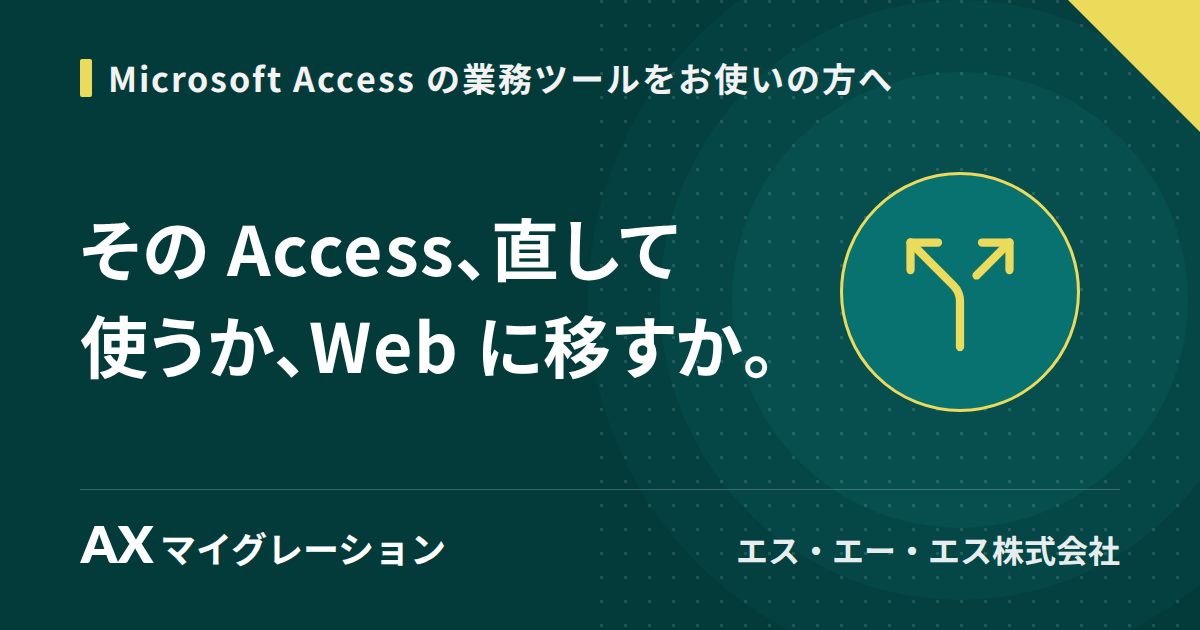
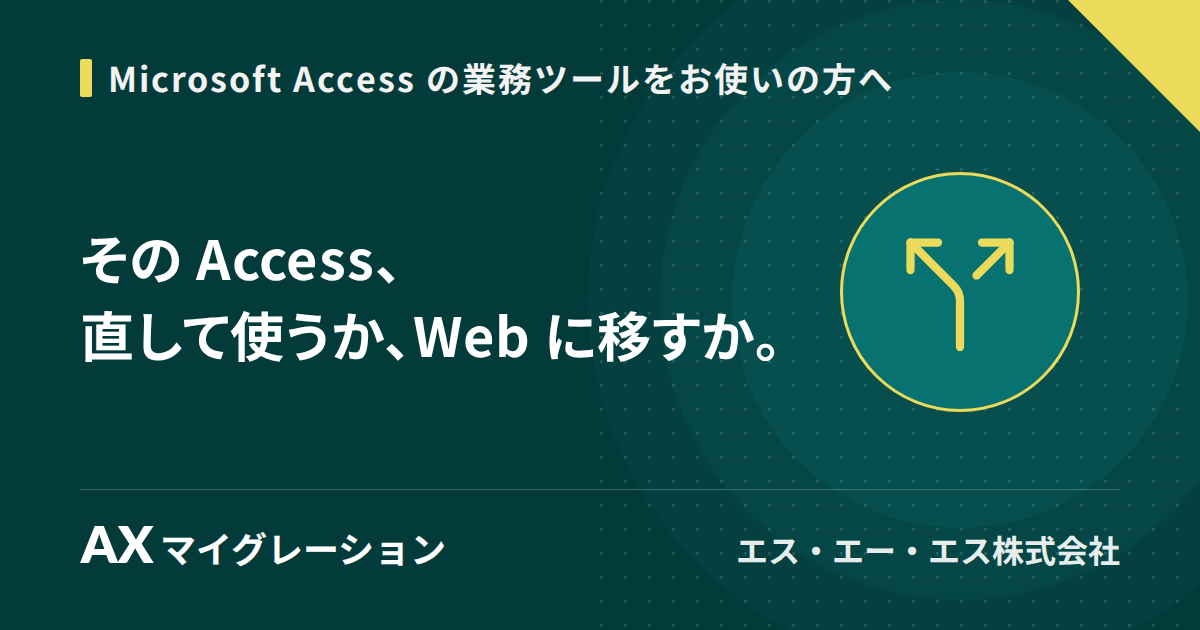
fix(ui): break the Access share title by hand and fit column cards on phones
- Access LP share image (ja): "その Access、" / "直して使うか、Web に移すか。"
- column list: on phones a 96px image beside the date and title, summary below
- record the 10-23 decisions on share images and the launch-day check

Closes #347

Changed region(s): [[0.0617, 0.4825, 0.6475, 0.6032], [0.0617, 0.3317, 0.5858, 0.4524]]

diff --git a/app/[locale]/(ax)/ax-migration/column/page.tsx b/app/[locale]/(ax)/ax-migration/column/page.tsx
@@ -96,21 +96,26 @@ export default async function ColumnIndexPage({ params }: ColumnIndexPageProps) 
                   stretched over the card: the image and "read the article" are not second links,
                   so a screen reader announces each article once. The card shows the focus.
                 */}
-                <article className="relative rounded-2xl bg-white p-4 shadow-sm ring-1 ring-black/5 focus-within:outline focus-within:outline-3 focus-within:outline-offset-2 focus-within:outline-ax-teal-dark sm:flex sm:gap-6 sm:p-6">
+                {/*
+                  A grid (#347): on phones a small image beside the date and the title, and the
+                  summary across the card below them, so that a screen shows several articles; from
+                  sm the image on the left of all of it
+                */}
+                <article className="relative grid grid-cols-[6rem_minmax(0,1fr)] gap-x-4 gap-y-3 rounded-2xl bg-white p-4 shadow-sm ring-1 ring-black/5 focus-within:outline focus-within:outline-3 focus-within:outline-offset-2 focus-within:outline-ax-teal-dark sm:grid-cols-[15rem_minmax(0,1fr)] sm:gap-x-6 sm:p-6">
                   {/* Decorative: the link below names the article; not a second link to it */}
                   <ColumnThumbnail
                     slug={column.slug}
-                    sizes="(min-width: 640px) 240px, calc(100vw - 4rem)"
-                    className="rounded-xl sm:w-60 sm:shrink-0 sm:self-start"
+                    sizes="(min-width: 640px) 240px, 96px"
+                    className="self-start rounded-lg sm:row-span-3 sm:rounded-xl"
                   />
-                  <div className="mt-4 px-2 pb-2 sm:mt-0 sm:px-0 sm:pb-0">
+                  <div>
                     <p className="text-sm text-gray-600">
                       {t('publishedAt')}{' '}
                       <time dateTime={column.publishedAt}>
                         {formatColumnDate(column.publishedAt, locale)}
                       </time>
                     </p>
-                    <h2 className="mt-2 text-lg font-bold leading-snug sm:text-xl">
+                    <h2 className="mt-1 text-base font-bold leading-snug sm:mt-2 sm:text-xl">
                       <a
                         href={`/${locale}${columnPath(column.slug)}`}
                         className="outline-none after:absolute after:inset-0 after:rounded-2xl after:content-[''] hover:text-ax-teal-dark hover:underline hover:underline-offset-4"
@@ -118,14 +123,14 @@ export default async function ColumnIndexPage({ params }: ColumnIndexPageProps) 
                         {column.title}
                       </a>
                     </h2>
-                    <p className="mt-3 text-sm leading-relaxed text-gray-700">
-                      {column.description}
-                    </p>
-                    <p className="mt-4 flex items-center gap-1 text-sm font-bold text-ax-teal-dark">
-                      <span aria-hidden="true">{t('readArticle')}</span>
-                      <ArrowRight className="h-4 w-4" aria-hidden="true" />
-                    </p>
                   </div>
+                  <p className="col-span-2 text-sm leading-relaxed text-gray-700 sm:col-span-1 sm:col-start-2">
+                    {column.description}
+                  </p>
+                  <p className="col-span-2 flex items-center gap-1 text-sm font-bold text-ax-teal-dark sm:col-span-1 sm:col-start-2">
+                    <span aria-hidden="true">{t('readArticle')}</span>
+                    <ArrowRight className="h-4 w-4" aria-hidden="true" />
+                  </p>
                 </article>
               </li>
             ))}

diff --git a/test/unit/features/ax-site-columns.test.ts b/test/unit/features/ax-site-columns.test.ts
@@ -223,6 +223,23 @@ describe('share images of the landing pages and the column list (#344)', () => {
     }
   });
 
+  it.each(images)('%s breaks its title by hand only into the title itself', (_, page, locale) => {
+    const lines = AX_SHARE_IMAGES[page].lines?.[locale];
+    if (!lines) return;
+    const messages: AbstractIntlMessages = locale === 'en' ? en : ja;
+    const title: string = createTranslator({ locale, messages })(
+      AX_SHARE_IMAGES[page].titleKey as never
+    );
+    expect(lines.join('').replace(/\s/g, '')).toBe(title.replace(/\s/g, ''));
+  });
+
+  it('puts the two choices of the Access title on one line (#347)', () => {
+    expect(AX_SHARE_IMAGES['ax-access'].lines?.ja).toEqual([
+      'その Access、',
+      '直して使うか、Web に移すか。',
+    ]);
+  });
+
   it('uses the image of the page locale, or the first one the page has', () => {
     expect(axShareLocale('ax-migration', 'en')).toBe('en');
     expect(axShareLocale('ax-column', 'en')).toBe('ja');

diff --git a/lib/features/ax-site/share-images.ts b/lib/features/ax-site/share-images.ts
@@ -18,6 +18,11 @@ export interface AxShareImageSpec {
   labelKey: string;
   /** Message key of the title of the image, also its alt text */
   titleKey: string;
+  /**
+   * The title broken into lines by hand, per locale (otherwise the browser breaks it between
+   * phrases); the lines joined must be the title
+   */
+  lines?: Partial<Record<AxShareLocale, readonly string[]>>;
   icon: ColumnThumbnailIcon;
 }
 
@@ -34,6 +39,8 @@ export const AX_SHARE_IMAGES: Record<AxSharePage, AxShareImageSpec> = {
     locales: ['ja', 'en'],
     labelKey: 'axAccess.hero.eyebrow',
     titleKey: 'axAccess.hero.title',
+    // The two choices on one line (#347)
+    lines: { ja: ['その Access、', '直して使うか、Web に移すか。'] },
     icon: 'split',
   },
   // The column list (Japanese only): its heading as the label, its lead as the title

diff --git a/scripts/generate-column-thumbnails.ts b/scripts/generate-column-thumbnails.ts
@@ -174,12 +174,18 @@ function shareCards(): Card[] {
       // The keys of a spec are plain strings: look them up in the untyped messages
       const messages: AbstractIntlMessages = MESSAGES[locale];
       const t = createTranslator({ locale, messages });
+      const title: string = t(spec.titleKey as never);
+      const lines = spec.lines?.[locale];
+      if (lines && lines.join('').replace(/\s/g, '') !== title.replace(/\s/g, '')) {
+        throw new Error(`${page}-${locale}: the lines are not the title`);
+      }
       return {
         name: `${page}-${locale}`,
         file: axShareImagePath(page, locale),
         locale,
         label: t(spec.labelKey as never),
-        title: t(spec.titleKey as never),
+        title,
+        lines: lines ? [...lines] : undefined,
         icon: spec.icon,
         accent: 'yellow',
       };

diff --git a/.factory/memory/decisions.md b/.factory/memory/decisions.md
@@ -611,6 +611,16 @@
   - LP をまたぐリンクは `?from=<ページ>-<置き場所>` を付け、今の URL の utm_*・ref・agency を引き継ぐ（クリック時に付け、href は素のパスのまま）。from は許可した値だけを tracking に保存する（`lib/features/ax-site/cross-links.ts`）
   - 診断の直前には出口になるリンクを置かない（Access の LP の関連コラムは最後の CTA の後）
 
+### [Marketing] SNS 用の画像・コラム一覧・公開日の確認（#344, #347, #348）
+- **日付**: 2026-10-23
+- **決定（オーナー）**:
+  - **画像の「Microsoft Access」**: 画像に入れたままにする。法務の確認はしない。指摘を受けたら、ラベルから「Microsoft」を外した画像に差し替える。SNS にすでに共有された画像は、差し替えてもしばらく古いまま残ることを承知している
+  - **Access LP の画像の改行**: 「その Access、／直して使うか、Web に移すか。」。比べる2つの選択肢を1行にそろえる
+  - **スマホのコラム一覧**: 小さい画像（96px）を日付・題名の横に並べ、説明文はその下に通す（公開前）
+  - **公開日（10/29）の SNS の画像の確認**: Claude は、公開の直後に og:image と画像を取得できるかを確かめる。GA4 の担当（マーケティング）は、午前中に Facebook のシェアデバッガーと LinkedIn Post Inspector で確かめる
+  - **公開後に回すもの**: 題名の文字サイズをそろえる、画像の版の番号、短いキャッチ、UTM のルールの4つ。1つの Issue（#348）にまとめ、11月前半に対応する。UTM のルールはマーケティングが決める
+- **ルール**: SNS 用の画像の文言は、そのページの文言だけを使う。期間・費用・削減率は入れない（`lib/features/ax-site/share-images.ts`）
+
 ---
 
-*最終更新: 2026-10-22*
+*最終更新: 2026-10-23*
